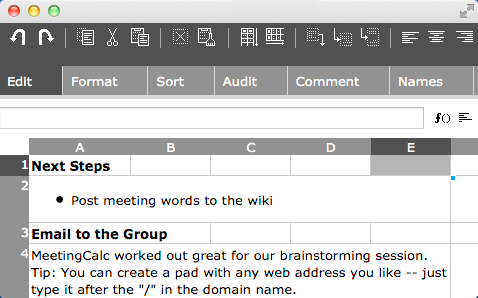
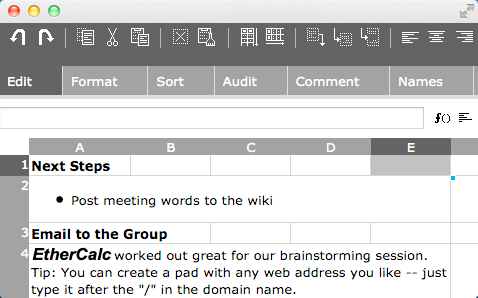
* Add source SaSS file in start.sass and update Makefile rules to build it. * Refresh licensing information and screenshot.

diff --git a/start.css b/start.css
@@ -1,122 +1,1 @@
-html,body,div,span,applet,object,iframe,h1,h2,h3,h4,h5,h6,p,blockquote,pre,a,abbr,acronym,address,big,cite,code,del,dfn,em,font,img,ins,kbd,q,s,samp,small,strike,strong,sub,sup,tt,var,dl,dt,dd,ol,ul,li,fieldset,form,label,legend,table,caption,tbody,tfoot,thead,tr,th,td{margin:0;padding:0;border:0;outline:0;font-weight:inherit;font-style:inherit;font-size:1em;font-family:inherit;vertical-align:baseline;}
-:focus{outline:0;}body{line-height:1;color:#333;background:#f7f7f7;font-size:75%;}html>body{font-size:12px;}
-ol,ul{list-style:none;}table{border-collapse:separate;border-spacing:0;}caption,th,td{text-align:left;font-weight:normal;}
-blockquote:before,blockquote:after,q:before,q:after{content:"";}blockquote,q{quotes:"" "";}a.obfuscemail{text-decoration:none;}
-a:link,a:visited{text-decoration:none;color:#004ca8;}a:hover{text-decoration:underline;color:#005CCB;}
-.clear{clear:both;}em{font-style:italic;}strong{font-weight:bold;}.fpcontent .newpadbuttonwrap{width:152px;height:35px;background:url(/static/img/davy/btn/createpad-small.gif) no-repeat bottom left;}
-.fpcontent .newpadbuttonwrap a{width:152px;position:relative;padding:35px 0 0 0;overflow:hidden;background:transparent url(/static/img/davy/btn/createpad-small.gif) no-repeat top left;height:0;display:block;}
-#errorpage .error500{font-size:1em;background:#fcc;border:1px solid #f00;padding:1em;margin:1em 2em;font-weight:bold;}
-body#padviewbody{background-color:#ebebeb;}#padviewpage a{text-decoration:underline;}#padviewpage #padviewheader{margin:8px;padding:8px;border:1px solid #ccc;background-color:#e0e0ff;line-height:160%;}
-#padviewpage #padviewheader h1{font-weight:bold;font-family:"Lucida Grande","Lucida Sans Unicode",sans-serif;font-size:2em;}
-#padviewpage .metadata{color:#333;}#padviewpage .rlabel{font-weight:bold;}#padviewpage p{margin-top:2px;}
-#padviewpage #padcontent{border:1px solid #ccc;margin:8px;padding:8px;font-family:sans-serif;font-size:12px;background-color:#fff;line-height:130%;}
-#padviewpage #padviewfooter{margin:8px;padding:8px;font-size:12px;}#padviewpage #export td.exportpic a img{border:0;}
-#padviewpage #export a.disabledexport{color:gray;text-decoration:none;}#padviewpage #export{font-size:1em;}
-#padviewpage #export .exportlink{margin:2px 0;}#padviewpage #export td.exportpic{padding-left:10px;}
-#padviewpage #export td.labelcell{padding-left:4px;}#export img{vertical-align:middle;padding:4px;padding-bottom:8px;padding-left:3px;}
-#export span.titlelabel{vertical-align:top;padding-right:12px;font-size:1.3em;color:#000;font-weight:bold;margin-top:10px;}
-#export td.labelcell a{vertical-align:middle;font-size:1em;padding-right:12px;color:#00348f;font-weight:bold;}
-#featuretourpage p{margin-top:1em;}#featuretourpage #screencastmsg{margin:2em 0;}#featuretourpage .featurebox{clear:both;padding:1em 1em;margin-top:2em;margin-left:auto;margin-right:auto;background:#eee;border:1px solid #ccc;}
-#featuretourpage .featurebox .featureprose p{padding:0;margin:1em 0;}#featuretourpage .featurebox img{border:1px solid #aaa;margin:0 1em 1em 1em;}
-#featuretourpage #usersimg{float:right;}#featuretourpage #editsimg{padding:0;margin:0;}#featuretourpage #neverlosework img{float:left;}
-#featuretourpage #lockimg{float:right;border:0;}#featuretourpage #revisionsimg{float:left;margin-left:0;}
-#featuretourpage #codeimg{float:left;margin-left:0;}#featuretourpage h2{margin-top:0;font-size:1.5em;font-weight:bold;}
-#featuretourpage p{font-size:1.1em;}#productpage p{font-size:1.2em;color:#333;}#productpage h2{font-size:1.6em;font-weight:bold;font-family:inherit;color:#399;font-style:italic;border-bottom:1px solid #399;margin-top:1.5em;margin-bottom:.3em;}
-#productpage #howuse{margin-left:80px;margin-right:80px;}#productpage #howuse p{font-size:1.2em;line-height:150%;}
-#productpage .tourbar{width:100%;}#productpage .tourbar td{padding:3px;}#productpage .tourbar .left{text-align:left;font-weight:bold;font-size:1.6em;}
-#productpage .tourbar .right{text-align:right;}#productpage .tourbar a{color:#33f;font-size:1.4em;font-weight:bold;}
-#productpage #tourtop{border-bottom:1px solid #999;}#productpage #pageshot img{display:block;margin-top:10px;margin-bottom:10px;margin-left:auto;margin-right:auto;padding:0;}
-#productpage .javascripton #tourbody{padding-top:1px;padding-bottom:1px;}#productpage .javascripton .tourprose{display:none;}
-#productpage #usecases table{height:300px;padding:20px auto;border:1px solid #aaa;width:100%;}#productpage #usecases td{vertical-align:top;}
-#productpage #usecases p{font-family:Georgia,serif;font-size:1.3em;line-height:1.3;}#productpage #usecases h3{padding:0;margin:0;font-weight:bold;color:black;font-family:inherit;font-size:1.6em;margin-top:.5em;}
-#productpage #usecases strong{font-style:normal;font-weight:normal;background-color:#ffc;}#productpage #usecases p.intro{margin:.5em 0;}
-#productpage #usecases #prosecell{padding-left:20px;padding-right:20px;padding-top:15px;border-left:1px solid #ccc;background:#fff url(/static/img/oct/insetrect.gif) no-repeat right top;}
-#productpage #usecases #prosecell p{padding:0;margin:0;margin-bottom:.8em;}#productpage .showpageshot #usecases{display:none;}
-#productpage .showusecases #pageshot{display:none;}#productpage #tourleftnavcell{width:200px;}#productpage ul#tourleftnav{margin:0;padding:0;list-style:none;}
-#productpage ul#tourleftnav li{margin:0;padding:0;background:#fff;}#productpage ul#tourleftnav li a{color:#33f;text-decoration:none;}
-#productpage ul#tourleftnav li a:hover{text-decoration:underline;}#productpage ul#tourleftnav li a{outline:none;}
-#productpage ul#tourleftnav li{background:url(/static/img/oct/usecasesnavup.gif) repeat-x left center;border-bottom:1px solid #ccc;}
-#productpage ul#tourleftnav li.selected{background:url(/static/img/oct/usecasesnavdown.gif) repeat-x left center;}
-#productpage ul#tourleftnav li.selected a{color:#000;background:url(/static/img/oct/tinytriangle.gif) no-repeat 95% center;}
-#productpage #tourleftnav a{font-size:1.2em;padding:.4em .4em;display:block;font-weight:bold;font-family:inherit;font-style:italic;cursor:pointer;}
-.fpcontent .newpadbuttonwrap{margin:0 auto;}#faqpage hr{width:100%;margin-top:2em;margin-bottom:2em;margin-left:auto;margin-right:auto;color:#ccc;}
-div#faqpage h2{border-bottom:1px solid #aaa;margin:0;}#faqpage div.answer{color:#222;padding:1em;}#faqpage ul.qlist{margin:2em 0 4em 1.4em;}
-#faqpage ul.qlist li{margin:.5em 0;}#contactpage div.cbox{padding:1em;margin:2em 0;width:330px;height:200px;}
-#contactpage h2{margin:0;}#contactpage #boxleft{float:left;margin-left:1em;}#contactpage #boxright{float:right;margin-right:1em;}
-#contactpage #boxright p{font-size:1.4em;font-family:serif;color:#222;padding-left:2em;}#companypage div#appjetinc{width:300px;float:left;padding:2em;}
-#companypage div#appjetinc p{padding-left:1em;}#companypage img#ajlogo{margin-top:1em;border:0;}#companypage img#pier38{border:1px solid #888;float:right;margin-top:1em;}
-#companypage table img{border:1px solid #444;margin-top:4px;}#companypage table td{padding:15px;vertical-align:top;}
-#companypage table td p.intro{margin-top:0;}.blogbody{background:#f8f8f8;}.blogpage a#subscribelink{font-size:.92em;display:block;background:#fff;border:1px solid #666;font-weight:bold;margin-bottom:1em;padding:4px 8px;color:#049;text-decoration:none;}
-.blogpage div#subscribewrap a:hover{background:#def;}.blogpage a#subscribelink img{border:0;float:left;}
-.blogpage div#subscribewrap span.subtext{display:block;float:left;padding-left:8px;padding-top:2px;}
-div#blogcol1{width:520px;padding-left:50px;float:left;font-size:.9em;}div#blogcol2{float:left;width:240px;margin-top:24px;margin-left:1em;}
-div#recentpostsbox{border:1px solid #ccc;background:#fefefe;padding:12px 6px;font-size:.8em;}div#recentpostsbox p{margin:0;font-weight:bold;padding-left:.5em;}
-div#recentpostsbox a{color:#049;text-decoration:none;}div#recentpostsbox a:hover{text-decoration:underline;}
-div#recentpostsbox ul li{margin:0;margin-top:.4em;}.blogpage div.bpheader{border-top:1px solid #ccc;border-bottom:1px solid #ccc;border-right:1px solid #ccc;border-left:1px solid #ccc;background:#eee;margin-top:24px;padding:1em;}
-.blogpage div.blogpost_mainpage_content{background:#fff;padding:0 1em;padding-top:.1em;padding-bottom:.5em;border-right:1px solid #ccc;border-left:1px solid #ccc;border-bottom:1px solid #ccc;font-size:100%;line-height:1.4;}
-.blogpage div.blogpost_mainpage_content a{text-decoration:underline;}.blogpage div.blogpost_mainpage_content a:hover{color:red;}
-.blogpage div.bpheader div.postdate a{text-decoration:none;font-size:1em;font-weight:bold;font-style:italic;color:#555;}
-.blogpage div.bpheader h2{margin:0;border:0;}.blogpage div.bpheader h2 a{font-size:1em;text-decoration:none;color:#049;margin:0;font-style:normal;}
-.blogpage div#disqus_thread{margin-top:40px;}.blogpage .commentslink{text-align:right;}.singleblogpost #blogposttop{margin-left:50px;}
-.blogpage h3{font-weight:bold;font-size:1em;color:#050;}.blogpost_mainpage_content ol li{margin-top:1em;margin-left:2em;list-style:decimal;}
-.blogpage div.code{font-family:monospace;border:1px solid yellow;padding:.5em;background:#ffd;}.blogpage tt{font-family:monospace;}
-#createpadpage form{width:80%;margin-left:auto;margin-right:auto;border:1px solid #ddd;background:#eef;font-size:1.8em;text-align:center;padding:2em;}
-#createpadpage #padurl{background:#fff;border:1px solid #ccc;padding:1em;}#createpadpage input{font-size:1.8em;}
-#padfullpage #msg{margin:2em 0;padding:2em;background:#eee;border:1px solid #aaa;font-size:1.3em;}#padfullpage #padurlwrap{text-align:center;margin-bottom:3em;}
-#padfullpage #padurl{background:#fff;border:1px solid #ccc;padding:1em;}#betasignuppage img#betasign{float:left;margin-top:20px;}
-#betasignuppage div#betaformwrap{margin:15px;padding:20px;margin-left:200px;border:1px solid #ccc;background:#eee;}
-#betasignuppage div#betaformwrap p{margin:0;color:#333;margin-bottom:1em;}#betasignuppage div#betaform{padding:2em 0;}
-#betasignuppage div#betaform input#email{font-size:1.6em;color:#555;}#betasignuppage div#betaform button{font-size:1.6em;}
-#betasignuppage div#confirm{display:none;}#betasignuppage div#error{margin:1em 3em 2em 2em;color:red;display:none;}
-#betasignuppage div#confirm{margin:2em 2em 2em 0;color:green;font-weight:bold;display:none;}#betasignuppage div#subtext{font-size:.9em;color:#666;}
-body#padsliderbody{font-size:1.2em;padding:20px;background-color:#fff;}#padsliderbody #stuff{width:600px;margin-top:10px;}
-#padsliderbody #sliderui{margin:10px;}#padsliderbody #controls{background:#eee;padding:5px;border:1px solid #999;}
-#padsliderbody #currevdisplay{margin-top:3px;}#padsliderbody #controls a{color:#00f;text-decoration:underline;cursor:pointer;}
-#padsliderbody #stuff{padding:5px;}#testimonials{padding:0 3em;font-family:times serif;}#testimonials .head{font-weight:bold;padding-top:4px;padding-right:80px;}
-#testimonials .quote-open{background:url(/static/img/about/quote-open.png) no-repeat left top;padding-left:80px;margin-top:2em;}
-#testimonials .quote-close{background:url(/static/img/about/quote-close.png) no-repeat right bottom;padding-right:80px;text-align:justify;color:#222;}
-#testimonials .attrib{font-style:italic;text-align:right;padding-left:2em;padding-right:80px;color:#444;}
-#testimonials .attrib p{margin:0;}div.pne-faq dt{font-size:1.1em;border-bottom:1px solid #444;color:#666;margin:1.6em 0 .75em 0;}
-div#support-content{margin:0 4em;}div#forums-content{margin:0 4em;}#container{font-family:Arial,Helvetica,Calibri,sans-serif;}
-body.home{background:#f7f7f7 url(/static/img/davy/bg/home2.png) repeat-x top;}.home #container{width:920px;margin:0 auto;}
-body.nothome{background:#f7f7f7 url(/static/img/davy/bg/product.png) repeat-x top;}.nothome #container{width:910px;margin:0 auto;}
-#navigation,.home #top,.home #bottom,#footer{width:888px;margin:0 auto;}div.fpcontent{width:848px;margin:0 auto;font-size:1.3em;padding:20px;background-color:#fff;border-left:1px solid #ccc;border-right:1px solid #ccc;border-bottom:1px solid #ccc;border-top:0;}
-div.fpcontent h1{color:#666;border-bottom:1px solid #666;margin:.8m 0 1em 0;font-size:1.8em;}div.fpcontent h2{color:#666;border-bottom:1px solid #666;font-size:1.4em;margin:1em 0;}
-div.fpcontent p{margin:1em 0;line-height:150%;}div.fpcontent ul{list-style:disc;padding-left:1.5em;}
-div.fpcontent ul li{margin:1em 0;padding-left:.5em;}#topnav_wrap{background:url(/static/img/davy/bg/product.png) repeat-x top;}
-#navigation{height:38px;overflow:hidden;background:url(/static/img/davy/bg/home2.png) repeat-x top;}
-#navigation h1 a{display:block;width:133px;position:relative;padding:38px 0 0 0;overflow:hidden;background:transparent url(/static/img/davy/gfx/product-logo.png) no-repeat 0 6px;height:0;float:left;}
-.home #navigation h1 a{display:none;}#navigation ul{margin-right:-10px;}#navigation li{display:inline;}
-#navigation li a{font-family:Calibri,"Trebuchet MS",Trebuchet,Arial,sans-serif;font-size:1.208em;text-transform:uppercase;color:#fff;text-shadow:0 1px 0 #223f6b;letter-spacing:1px;display:block;padding:11px 15px 13px 15px;float:right;}
-.home #navigation .topnav_pricing a{color:#ffc261;}.home #navigation .topnav_pricing a:hover{color:#FEAC59;}
-#navigation li.selected a{color:#bddbff;}.home #navigation li.selected a{background:url(/static/img/davy/bg/home-nav-selected.png) no-repeat center 32px;}
-.nothome #navigation li.selected a{background:url(/static/img/davy/bg/product-nav-selected-white.png) no-repeat center 32px;}
-#navigation li a:hover{color:#DEEDFF;text-decoration:none;}.home #footer{border-top:1px solid #d9d9d9;margin-top:24px;}
-.nothome #footer{margin-top:0;}#footer-inner{border-top:1px solid #f9f9f9;padding:12px 0;color:#666;font-size:.917em;}
-#footer-left{float:left;width:640px;}#footer ul,#footer li{display:inline;}#footer li{margin-left:1em;}
-#footer #appjet{float:right;margin-right:-12px;}#footer #appjet a{background:url(/static/img/davy/gfx/plane.gif) no-repeat right center;padding-right:12px;}
-#poweredby{float:right;margin-right:12px;}#top{height:349px;position:relative;background:url(/static/img/davy/gfx/screenshot.png) no-repeat bottom right;}
-#homepage-notice{margin:10px auto;width:888px;background:#ffc;color:#000;border:2px solid #550;font-size:1.4em;padding:8px;}
-#intro-left{width:340px;float:left;font-family:Arial,Helvetica,sans-serif;text-shadow:0 0 1px #18487F;padding-top:10px;}
-#intro-left h1{width:300px;position:relative;padding:57px 0 0 0;overflow:hidden;background:transparent url(/static/img/davy/gfx/home-logo2.png) no-repeat top left;height:0;margin:0 0 5px -8px;}
-#intro-left h2{color:#d1e5ff;font-size:1.5em;font-weight:bold;line-height:1.2;}#intro-left h2 a{color:#9ac6ff;font-style:italic;border-bottom:2px solid;}
-#intro-left h2 a:hover{text-decoration:none;color:#4A91EE;}#intro-left p{color:#fff;font-size:1.167em;line-height:1.3;margin:10px 0;}
-#intro-links{position:absolute;bottom:17px;left:-1px;width:500px;}#intro-links a{display:block;float:left;position:relative;padding:64px 0 0 0;overflow:hidden;background-repeat:no-repeat;background-position:top left;height:0;}
-#newpadbutton{width:212px;background-image:url(/static/img/davy/btn/createpad-home.png);margin-right:11px;}
-#betabutton{width:220px;background-image:url(/static/img/davy/btn/signup-home-4.gif);}#bottom{padding-top:28px;}
-#quote{border-bottom:1px solid #e0e0e0;padding-bottom:24px;text-shadow:0 0 1px #F7F7F7;}#quote q{width:680px;float:left;font-size:1.33em;height:1.5em;}
-#quote #quote-right{width:200px;float:right;text-align:right;}#quote #quote-right cite{display:block;font-size:1.33em;font-style:italic;margin-bottom:8px;}
-#features{border-top:1px solid #fff;padding-top:22px;text-shadow:0 0 1px #F7F7F7;}#features li{width:213px;float:left;margin-left:12px;}
-#features li.first{margin-left:0;}#features li img{float:left;margin-right:8px;}#features li strong,#features li span{display:block;margin-left:40px;}
-#features li strong{font-size:16px;font-weight:normal;margin-bottom:6px;}#features li span{line-height:17px;}
-#uses{width:675px;float:left;margin-bottom:28px;margin-right:-12px;position:relative;}#uses li{width:213px;float:left;margin-right:12px;}
-#uses li a{font-size:1.5em;font-family:Calibri,Arial,Helvetica,sans-serif;text-shadow:0 1px 0 #fff;color:#214b7e;}
-#uses li a:hover{text-decoration:none;color:#30619c;}#uses li .thumb{display:block;width:213px;position:relative;padding:123px 0 0 0;overflow:hidden;background-repeat:no-repeat;background-position:top left;height:0;margin-top:10px;}
-#uses #use-meetings .thumb{background-image:url(/static/img/davy/gfx/use-meetings.png);}#uses #use-programming .thumb{background-image:url(/static/img/davy/gfx/use-programming.png);}
-#uses #use-writing .thumb{background-image:url(/static/img/davy/gfx/use-writing.png);}#uses .more{display:block;position:absolute;padding:21px 0 0 0;overflow:hidden;background:transparent url(/static/img/davy/btn/uses-more.gif) no-repeat top left;height:0;width:58px;top:0;right:12px;z-index:10;}
-* html #uses .more{right:24px;}#blog{width:213px;float:left;margin-right:12px;clear:left;}#blog h3{font-family:Calibri,"Trebuchet MS",Trebuchet,Arial,Helvetica,sans-serif;color:#666;text-transform:uppercase;text-shadow:0 1px 0 #fff;letter-spacing:1px;}
-#blog li{margin:1.25em 0;}#blog li strong a{font-size:1.33em;font-family:Calibri,Arial,Helvetica,sans-serif;font-weight:bold;}
-#blog li small{display:block;font-size:.917em;font-family:Calibri,Arial,Helvetica,sans-serif;color:#666;margin:2px 0;}
-#blog li small a{color:#4182c2;}#blog li span{line-height:1.3;}#quotes{width:406px;float:left;background:#e0ecf9;border:1px solid #8ba9cc;border-left:0;border-right:0;color:#334050;font-family:Calibri,Arial,Helvetica,sans-serif;padding:12px 16px 0;text-shadow:0 0 1px #e0ecf9;}
-#quotes q{font-size:1.5em;line-height:1.22;display:block;text-indent:-.45em;}#quotes cite{font-size:1.33em;display:block;font-style:italic;text-align:right;margin:.5em 0 1em;}
-#quotes .more{text-align:right;margin-bottom:1em;position:relative;right:-.75em;font-size:1.167em;}
+html,body,div,span,applet,object,iframe,h1,h2,h3,h4,h5,h6,p,blockquote,pre,a,abbr,acronym,address,big,cite,code,del,dfn,em,font,img,ins,kbd,q,s,samp,small,strike,strong,sub,sup,tt,var,dl,dt,dd,ol,ul,li,fieldset,form,label,legend,table,caption,tbody,tfoot,thead,tr,th,td{margin:0;padding:0;border:0;outline:0;font-weight:inherit;font-style:inherit;font-size:1em;font-family:inherit;vertical-align:baseline}body{line-height:1;color:#333;background:#f7f7f7;font-size:75%}html > body{font-size:12px}.clear{clear:both}em{font-style:italic}strong{font-weight:bold}#container{font-family:Arial,Helvetica,Calibri,sans-serif}body.home{background:#f7f7f7 url(/static/img/davy/bg/home2.png) repeat-x top}.home #container{width:920px;margin:0 auto}#navigation{width:888px;margin:0 auto}.home #top,.home #bottom{width:888px;margin:0 auto}#footer{width:888px;margin:0 auto}#topnav_wrap{background:url(/static/img/davy/bg/product.png) repeat-x top}#navigation{height:38px;overflow:hidden;background:url(/static/img/davy/bg/home2.png) repeat-x top}.home #navigation h1 a{display:none}.home #footer{border-top:1px solid #d9d9d9;margin-top:24px}.nothome #footer{margin-top:0}#footer-inner{border-top:1px solid #f9f9f9;padding:12px 0;color:#666;font-size:0.917em}#footer-left{float:left;width:640px}#footer ul{display:inline}#footer li{display:inline;margin-left:1em}#footer #appjet{float:right;margin-right:-12px}#footer #appjet a{background:url(/static/img/davy/gfx/plane.gif) no-repeat right center;padding-right:12px}#top{height:349px;position:relative;background:url(/static/img/davy/gfx/screenshot.png) no-repeat bottom right}#intro-left{width:340px;float:left;font-family:Arial,Helvetica,sans-serif;text-shadow:0 0 1px #18487f;padding-top:30px}#intro-left h1{width:300px;position:relative;padding:57px 0 0 0;overflow:hidden;background:transparent url(/static/img/davy/gfx/home-logo2.png) no-repeat top left;height:0;margin:0 0 5px -8px}#intro-left h2{color:#d1e5ff;font-size:1.5em;font-weight:bold;line-height:1.2}#intro-left h2 a{color:#9ac6ff;font-style:italic;border-bottom:2px solid}#intro-left h2 a:hover{text-decoration:none;color:#4a91ee}#intro-left p{color:#fff;font-size:1.167em;line-height:1.3;margin:10px 0}#intro-links{position:absolute;bottom:5px;left:-5px;width:500px}#intro-links a{display:block;float:left;position:relative;padding:64px 0 0 0;overflow:hidden;background-repeat:no-repeat;background-position:top left;height:0}#newpadbutton{width:212px;background-image:url(/static/img/davy/btn/createpad-home.png);margin-right:11px}#bottom{padding-top:28px}

diff --git a/start.sass b/start.sass
@@ -1,0 +1,152 @@
+html, body, div, span, applet, object, iframe, h1, h2, h3, h4, h5, h6, p, blockquote, pre, a, abbr, acronym, address, big, cite, code, del, dfn, em, font, img, ins, kbd, q, s, samp, small, strike, strong, sub, sup, tt, var, dl, dt, dd, ol, ul, li, fieldset, form, label, legend, table, caption, tbody, tfoot, thead, tr, th, td
+  margin: 0
+  padding: 0
+  border: 0
+  outline: 0
+  font-weight: inherit
+  font-style: inherit
+  font-size: 1em
+  font-family: inherit
+  vertical-align: baseline
+
+body
+  line-height: 1
+  color: #333
+  background: #f7f7f7
+  font-size: 75%
+
+html>body
+  font-size: 12px
+
+.clear
+  clear: both
+
+em
+  font-style: italic
+
+strong
+  font-weight: bold
+
+#container
+  font-family: Arial,Helvetica,Calibri,sans-serif
+
+body.home
+  background: #f7f7f7 url(/static/img/davy/bg/home2.png) repeat-x top
+
+.home #container
+  width: 920px
+  margin: 0 auto
+
+#navigation
+  width: 888px
+  margin: 0 auto
+
+.home
+  #top, #bottom
+    width: 888px
+    margin: 0 auto
+
+#footer
+  width: 888px
+  margin: 0 auto
+
+#topnav_wrap
+  background: url(/static/img/davy/bg/product.png) repeat-x top
+
+#navigation
+  height: 38px
+  overflow: hidden
+  background: url(/static/img/davy/bg/home2.png) repeat-x top
+
+.home #navigation h1 a
+  display: none
+
+.home #footer
+  border-top: 1px solid #d9d9d9
+  margin-top: 24px
+
+.nothome #footer
+  margin-top: 0
+
+#footer-inner
+  border-top: 1px solid #f9f9f9
+  padding: 12px 0
+  color: #666
+  font-size: .917em
+
+#footer-left
+  float: left
+  width: 640px
+
+#footer
+  ul
+    display: inline
+  li
+    display: inline
+    margin-left: 1em
+  #appjet
+    float: right
+    margin-right: -12px
+    a
+      background: url(/static/img/davy/gfx/plane.gif) no-repeat right center
+      padding-right: 12px
+
+#top
+  height: 349px
+  position: relative
+  background: url(/static/img/davy/gfx/screenshot.png) no-repeat bottom right
+
+#intro-left
+  width: 340px
+  float: left
+  font-family: Arial,Helvetica,sans-serif
+  text-shadow: 0 0 1px #18487F
+  padding-top: 30px
+  h1
+    width: 300px
+    position: relative
+    padding: 57px 0 0 0
+    overflow: hidden
+    background: transparent url(/static/img/davy/gfx/home-logo2.png) no-repeat top left
+    height: 0
+    margin: 0 0 5px -8px
+  h2
+    color: #d1e5ff
+    font-size: 1.5em
+    font-weight: bold
+    line-height: 1.2
+    a
+      color: #9ac6ff
+      font-style: italic
+      border-bottom: 2px solid
+      &:hover
+        text-decoration: none
+        color: #4A91EE
+  p
+    color: #fff
+    font-size: 1.167em
+    line-height: 1.3
+    margin: 10px 0
+
+#intro-links
+  position: absolute
+  bottom: 5px
+  left: -5px
+  width: 500px
+  a
+    display: block
+    float: left
+    position: relative
+    padding: 64px 0 0 0
+    overflow: hidden
+    background-repeat: no-repeat
+    background-position: top left
+    height: 0
+
+#newpadbutton
+  width: 212px
+  background-image: url(/static/img/davy/btn/createpad-home.png)
+  margin-right: 11px
+
+#bottom
+  padding-top: 28px
